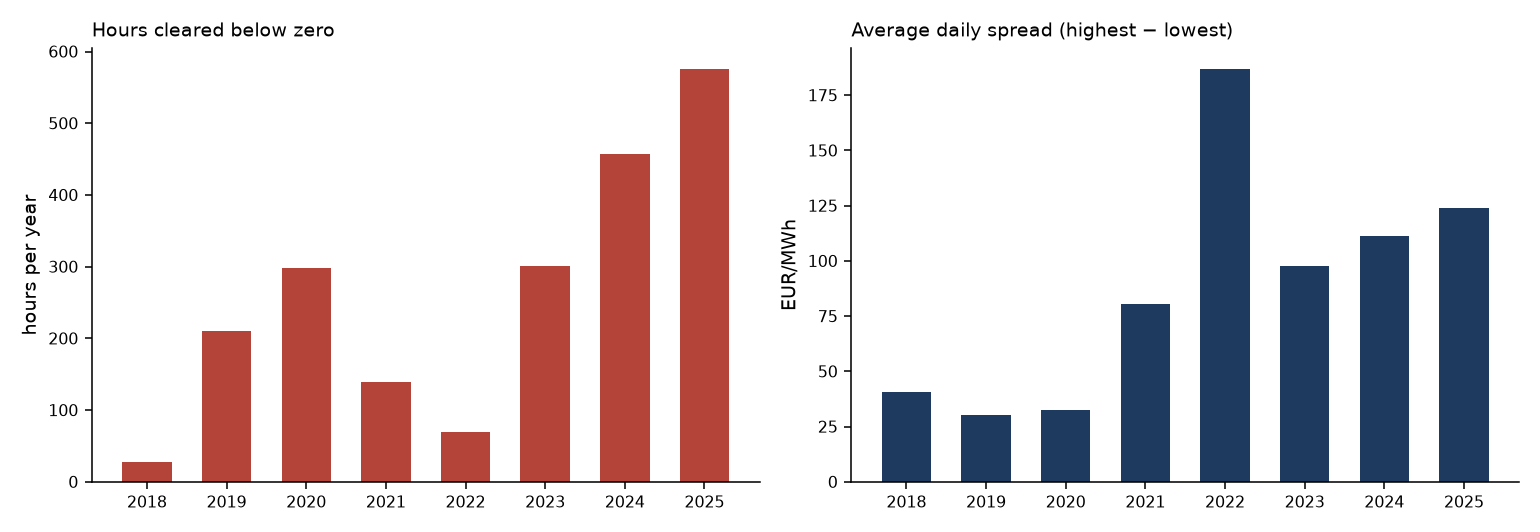
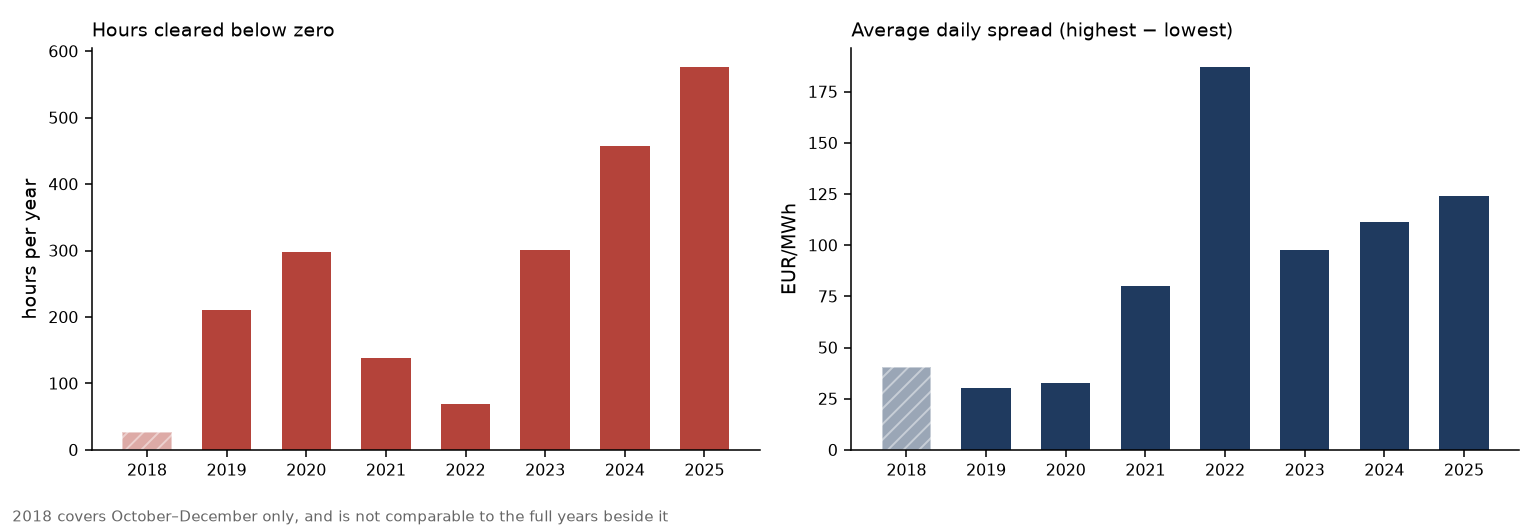
Draw the per-year fit, and count what negative prices actually are
The residual-load figure asserted that the seven years are several relationships
rather than one; a reader had to take that on trust from a colour gradient. A
least-squares line per year makes it checkable, and shows the part that moved is
the slope: one GW is worth roughly three times what it was in 2019.

Clipping the price window recovers the region where the data lives — 175 of
62,684 hours were stretching the axis to the -500 floor over empty space. The
partial first year is now hatched, because a chart gets screenshotted away from
its footnote.

Counting the residual load during negative-price hours tests the usual
explanation for them, which turns out not to hold.

diff --git a/scripts/explore.py b/scripts/explore.py
@@ -100,60 +100,120 @@ def figure_history(price: pd.Series, path):
 
 
 def figure_trends(neg: pd.DataFrame, spread: pd.DataFrame, path):
-    """The two headline numbers side by side, because the question is whether they move."""
+    """The two headline numbers side by side, because the question is whether they move.
+
+    The first bar is a quarter, not a year — the bidding zone only began in October
+    2018 — so it is hatched and faded.  A footnote alone is not enough: a chart gets
+    screenshotted away from its caption, and a short bar next to seven full ones
+    reads as a low year rather than a partial one.
+    """
     fig, (a, b) = plt.subplots(1, 2, figsize=(11, 3.8))
-    a.bar(neg.index, neg["hours"], color="#b4433a", width=0.62)
-    a.set_title("Hours cleared below zero", loc="left", fontsize=10)
-    a.set_ylabel("hours per year")
-    b.bar(spread.index, spread["mean"], color="#1f3a5f", width=0.62)
-    b.set_title("Average daily spread (highest − lowest)", loc="left", fontsize=10)
-    b.set_ylabel("EUR/MWh")
-    for ax in (a, b):
+    panels = ((a, neg["hours"], "#b4433a", "Hours cleared below zero", "hours per year"),
+              (b, spread["mean"], "#1f3a5f", "Average daily spread (highest − lowest)", "EUR/MWh"))
+    partial = neg.index.min()                       # the only year not covered in full
+    for ax, values, colour, title, ylabel in panels:
+        bars = ax.bar(values.index, values, color=colour, width=0.62)
+        bars[0].set(alpha=0.45, hatch="///", edgecolor="white")   # October-December only
+        ax.set_title(title, loc="left", fontsize=10)
+        ax.set_ylabel(ylabel)
         ax.spines[["top", "right"]].set_visible(False)
         ax.set_xticks(neg.index)
         ax.tick_params(labelsize=8)
-    fig.tight_layout(); fig.savefig(path, dpi=140); plt.close(fig)
+    fig.tight_layout(rect=(0, 0.06, 1, 1))          # leave a strip for the footnote
+    fig.text(0.008, 0.02, f"{partial} covers October–December only, and is not comparable "
+             f"to the full years beside it", fontsize=7.5, color="#666666")
+    fig.savefig(path, dpi=140); plt.close(fig)
 
 
-def figure_residual(path) -> str:
-    """Price against what thermal plants must cover — the mechanism behind the rest.
+def residual_frame() -> pd.DataFrame:
+    """Residual load beside the price it cleared at, in GW and EUR/MWh.
 
     Residual load is demand minus wind and solar, built entirely from forecasts
-    published before gate closure.  It is the single strongest driver of the price
-    and the reason no weather source is needed.
+    published before gate closure — so this frame would have been available at the
+    decision point, and nothing downstream of it leaks.
     """
     load = data.load("load_forecast").iloc[:, 0]
     ws = data.load("wind_solar_forecast")
     price = data.load("day_ahead_price").iloc[:, 0]
 
     residual = load - ws["Wind Onshore"] - ws["Wind Offshore"] - ws["Solar"]
-    both = pd.concat([local(residual).rename("residual"), local(price).rename("price")],
+    return pd.concat([local(residual).rename("residual") / 1000,      # MW to GW, once, here
+                      local(price).rename("price")],
                      axis=1, join="inner").dropna()
 
-    # Coloured by year on purpose.  Pooling seven years hides the finding: the same
-    # residual load cleared near 40 EUR/MWh in 2019 and near 300 in 2022, so the
-    # cloud is several relationships stacked rather than one scattered.
-    fig, ax = plt.subplots(figsize=(7.4, 4.8))
+
+def fit(part: pd.DataFrame) -> tuple[float, float]:
+    """Slope and intercept of the least-squares line through one year.
+
+    Written out rather than imported: for a single predictor the slope is just
+    covariance over variance, and that is not worth a dependency.  The slope is the
+    number a forecaster cares about — how many EUR/MWh one GW of error is worth.
+    """
+    slope = part.residual.cov(part.price) / part.residual.var()
+    return slope, part.price.mean() - slope * part.residual.mean()
+
+
+# ── Residual load against price ───────────────────────────────────────────────
+# The one figure that says why a model must not be fitted across all seven years at
+# once.  Each year gets its own colour and its own fitted line, so the claim — that
+# this is several relationships stacked, not one scattered — is something a reader
+# can check instead of taking on trust.  The price window is clipped because 26 of
+# 63,000 hours would otherwise stretch the axis over empty space and squash the
+# region where almost every hour actually sits.
+
+PRICE_WINDOW = (-150.0, 600.0)                      # the band nearly every hour falls in
+
+
+def figure_residual(both: pd.DataFrame, path) -> pd.DataFrame:
+    fig, ax = plt.subplots(figsize=(7.8, 5.0))
     years = sorted(both.index.year.unique())
     colours = plt.cm.viridis([i / max(len(years) - 1, 1) for i in range(len(years))])
+
+    rows = {}
     for colour, year in zip(colours, years):
         part = both[both.index.year == year]
-        ax.scatter(part.residual / 1000, part.price, s=1.6, alpha=0.10,
+        ax.scatter(part.residual, part.price, s=1.6, alpha=0.10,
                    color=colour, edgecolors="none", rasterized=True, label=str(year))
+        slope, intercept = fit(part)
+        span = part.residual.quantile([0.01, 0.99])          # never draw where no data is
+        ax.plot(span, intercept + slope * span, color=colour, lw=2.0,
+                solid_capstyle="round", zorder=3)
+        rows[year] = {"slope": slope, "corr": part.residual.corr(part.price), "hours": len(part)}
+
     ax.axhline(0, color="#b4433a", lw=0.9, ls="--")
-    ax.set_xlabel("residual load (GW)  =  demand − wind − solar")
+    ax.set_ylim(*PRICE_WINDOW)
+    ax.set_xlabel("residual load (GW)  =  demand − wind − solar forecast")
     ax.set_ylabel("day-ahead price (EUR/MWh)")
-    ax.set_title("What thermal plants must cover, against what it cost", loc="left", fontsize=10)
+    ax.set_title("The same residual load cleared at very different prices",
+                 loc="left", fontsize=10.5)
     ax.spines[["top", "right"]].set_visible(False)
-    leg = ax.legend(frameon=False, fontsize=8, markerscale=6, loc="upper left")
+    leg = ax.legend(frameon=False, fontsize=8, markerscale=6, loc="upper left",
+                    title="line = least squares fit for that year", title_fontsize=7.5)
+    leg._legend_box.align = "left"
     for handle in leg.legend_handles:
         handle.set_alpha(1)
+
+    outside = int(((both.price < PRICE_WINDOW[0]) | (both.price > PRICE_WINDOW[1])).sum())
+    ax.text(0.995, 0.015, f"{outside} of {len(both):,} hours fall outside this price window",
+            transform=ax.transAxes, ha="right", fontsize=7, color="#777777")
     fig.tight_layout(); fig.savefig(path, dpi=140); plt.close(fig)
 
-    per_year = both.groupby(both.index.year).apply(
-        lambda d: d.residual.corr(d.price), include_groups=False
-    )
-    return both, per_year
+    return pd.DataFrame(rows).T
+
+
+def negative_price_mechanism(both: pd.DataFrame) -> dict:
+    """Do prices only go below zero once wind and solar exceed demand?
+
+    They do not, and the gap is the finding.  Four fifths of negative hours still
+    needed several GW from something else, so the surplus is not the whole story —
+    but this dataset holds no plant-level costs and cannot say what the rest is.
+    """
+    neg = both[both.price < 0]
+    return {
+        "hours": len(neg),
+        "with_surplus": int((neg.residual < 0).sum()),   # wind and solar alone beat demand
+        "median_residual": neg.residual.median(),        # still positive, and that is the point
+    }
 
 
 def main() -> int:
@@ -179,16 +239,28 @@ def main() -> int:
     cfg.FIGURES.mkdir(parents=True, exist_ok=True)
     figure_history(price, cfg.FIGURES / "README_price_history.png")
     figure_trends(neg, spread, cfg.FIGURES / "README_negative_hours_and_spread.png")
-    both, per_year = figure_residual(cfg.FIGURES / "README_residual_load_vs_price.png")
+
+    both = residual_frame()
+    per_year = figure_residual(both, cfg.FIGURES / "README_residual_load_vs_price.png")
 
     print("\n\nResidual load against price\n")
-    print(f"pooled over all {len(both):,} hours: {both.residual.corr(both.price):.3f}")
-    print("within each year:")
-    for year, corr in per_year.items():
-        print(f"   {year}   {corr:.3f}")
-    print("\nThe pooled figure is the weaker one, and that is the finding: the same")
-    print("residual load cleared at very different prices in different years, so a")
-    print("model fitted across the whole record is fitting several relationships.")
+    print(as_markdown(per_year, ["Year", "Slope (EUR/MWh per GW)", "Correlation", "Hours"],
+                      ["{:,.2f}", "{:.3f}", "{:,.0f}"]))
+    print(f"\npooled across all {len(both):,} hours: "
+          f"{both.residual.corr(both.price):.3f}")
+    print("\nThe pooled correlation is the weaker one, and that is the finding: the same")
+    print("residual load cleared at very different prices in different years, so a model")
+    print("fitted across the whole record is fitting several relationships at once.")
+    print("The slope is the part that moved — one GW is worth roughly three times what")
+    print("it was in 2019, so the same forecast error now costs three times as much.")
+
+    # A claim worth checking rather than assuming: negative prices are usually read
+    # as "wind and solar made more than the country needed".  Mostly they are not.
+    mech = negative_price_mechanism(both)
+    print(f"\nOf {mech['hours']:,} negative-price hours, {mech['with_surplus']:,} "
+          f"({mech['with_surplus'] / mech['hours'] * 100:.0f} %) had residual load below zero.")
+    print(f"The median negative-price hour still needed {mech['median_residual']:.1f} GW "
+          f"from something other than wind and solar.")
 
     print(f"\nFigures written to {cfg.FIGURES.relative_to(cfg.ROOT)}/")
     return 0

diff --git a/README.md b/README.md
@@ -59,7 +59,10 @@ Seven years of DE-LU day-ahead prices, 63,577 hours. Regenerate every figure bel
 
 ![DE-LU day-ahead price, Oct 2018 to Dec 2025](reports/figures/README_price_history.png)
 
-Two numbers matter to a battery, and both moved in the same direction.
+The average went up and came back. The variation went up and stayed — the shaded band never
+returns to its 2019 width. **A battery is paid for the band, not the line.**
+
+Two numbers put a figure on the band.
 
 ![Negative-price hours and average daily spread, per year](reports/figures/README_negative_hours_and_spread.png)
 
@@ -84,33 +87,76 @@ Two numbers matter to a battery, and both moved in the same direction.
 battery is paid for the spread and nothing else, that is the headline: the opportunity this
 project measures is several times larger than it was in 2019.
 
-Both trends break in 2021–22. Gas set the price during the energy crisis, so surplus power
-was rare and negative hours collapsed while the spread reached 187 €/MWh. That single
-interruption sits in the middle of the training period and matters more than its two years
-suggest.
+**The two columns are not the same story twice.** 2025 has more negative hours than 2022
+(576 against 69) but a smaller spread (124 against 187). So what produced the spread changed:
+in 2022 the expensive hours were extremely expensive; in 2025 the cheap hours are extremely
+cheap. A battery keeps 81 % of what it stores but 100 % of what it is paid to take, so the
+second kind of spread is worth more per euro than the first.
+
+2021–22 interrupts both columns, and that interruption sits in the middle of the training
+period. What caused it is not visible in this data — these files hold prices, load and
+weather forecasts, and no fuel or carbon prices at all. The interruption is treated here as
+something the model has to survive, not something this repository can explain.
 
 ### Why the price is what it is
 
-![Residual load against price, coloured by year](reports/figures/README_residual_load_vs_price.png)
+The strongest single driver is **residual load** — demand minus wind and solar, built only
+from forecasts published before gate closure. It is what has to be covered by something other
+than the weather.
 
-Residual load — demand minus wind and solar, built only from forecasts published before gate
-closure — is the mechanism behind all of it. Where it turns negative, so does the price.
+Fitting a straight line through each year separately gives two numbers. The slope says how
+many €/MWh one GW of residual load is worth. The correlation says how tightly the two move
+together.
 
-But the relationship is **not one relationship**:
+| Year | Slope (€/MWh per GW) | Correlation | Hours |
+|---|---|---|---|
+| 2018¹ | 1.28 | 0.910 | 1,367 |
+| 2019 | **1.12** | 0.848 | 8,760 |
+| 2020 | 1.16 | 0.828 | 8,784 |
+| 2021 | 3.53 | **0.583** | 8,760 |
+| 2022 | **7.10** | 0.623 | 8,712 |
+| 2023 | 3.09 | 0.883 | 8,759 |
+| 2024 | 2.99 | 0.775 | 8,783 |
+| 2025 | 3.12 | 0.871 | 8,759 |
+| **Pooled** | — | **0.440** | 62,684 |
 
-| | Correlation with price |
+¹ October to December only.
+
+**The pooled correlation is the weakest number in the table, and that is the finding.** Each
+year on its own holds together far better than all of them together. So this is several
+relationships stacked, not one relationship scattered — and a model fitted across the whole
+record is averaging markets that behaved differently.
+
+![Residual load against price, one fitted line per year](reports/figures/README_residual_load_vs_price.png)
+
+**The slope roughly tripled and stayed tripled** — about 1.1 before 2021, about 3.1 since 2023.
+One GW of residual load is worth three times what it was in 2019, which is the same as saying
+a forecast error of one GW now costs three times as much.
+
+**2021 and 2022 are the two years that fit badly** (0.58 and 0.62), and 2022 is also the
+steepest by a distance. In those years something other than residual load was doing much of
+the work, and **this dataset cannot say what** — it holds no fuel or carbon prices. Whether to
+add them is an open scope question, held until the model shows whether it needs them.
+
+Both awkward years sit inside the training period. The test years fit well and share a slope.
+That is the shape of the problem stage 2 has to deal with.
+
+### What negative prices are not
+
+Negative prices are usually explained as wind and solar making more than the country needed.
+Mostly they are not:
+
+| Of 2,053 hours that cleared below zero | |
 |---|---|
-| Pooled across all 62,684 hours | **0.44** |
-| Within a single year | 0.58 – **0.91** |
+| Wind and solar alone exceeded demand | 424 (**21 %**) |
+| Median residual load during those hours | **+5.1 GW** |
 
-The pooled figure is the weaker one, and that is the point. The same residual load cleared
-near 40 €/MWh in 2019 and above 300 in 2022, so a model fitted across the whole record is
-fitting several relationships at once.
+Four fifths of the time the system still needed several GW from something else, and the price
+went below zero anyway. Something kept generating that would have lost more by stopping
+(*must-run generation*).
 
-The weakest years are 2021 (0.58) and 2022 (0.62). In those years something other than
-residual load was doing most of the work, and **this dataset cannot say what** — it holds no
-fuel or carbon prices. Whether to add them is an open scope question, held until the model
-shows whether it needs them.
+Naming the cause is beyond this dataset. Counting the hours is not, and the count is enough to
+rule out the simple explanation.
 
 ## Ground rules
 
